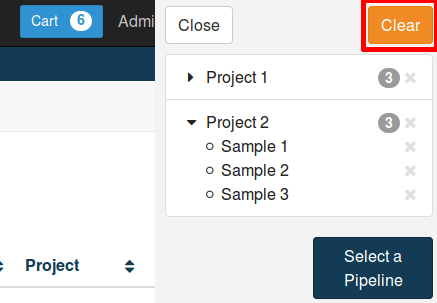
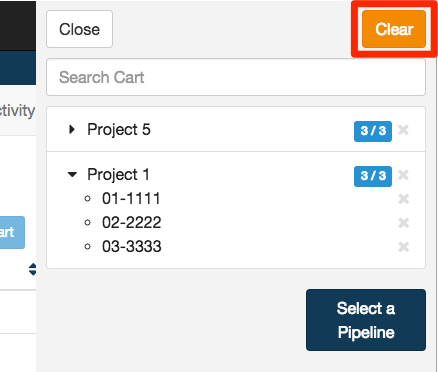
Updated documentation

diff --git a/doc/user/user/pipelines/index.md b/doc/user/user/pipelines/index.md
@@ -43,6 +43,17 @@ You can remove individual samples or all selected samples from a project by clic
 
 ![Cart clear button.](images/cart-clear-button.png)
 
+Searching samples in the cart
+-----------------------------
+
+You can search for individual samples within the cart use the 'cart search' field.
+
+![Cart search field](images/cart-filter-input.png)
+
+Search terms can match partial samples names.  Note: projects that do not contain any samples that match the filter are hidden.  The blue label displays the number of samples that match the filter and the total number of samples in the project.
+
+![Cart search active](images/cart-filter-active.png)
+
 Selecting a pipeline
 --------------------
 
